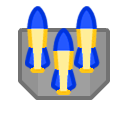
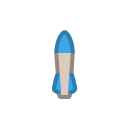
[modify]: towers' image

diff --git a/com.uet.tower-defense-common/src/main/java/com/uet/towerdefense/common/pojo/towers/AirGunTower.java b/com.uet.tower-defense-common/src/main/java/com/uet/towerdefense/common/pojo/towers/AirGunTower.java
@@ -4,6 +4,7 @@ import com.uet.towerdefense.common.enums.Towers;
 import com.uet.towerdefense.common.pojo.bullets.AirGunBullet;
 import com.uet.towerdefense.common.pojo.bullets.MachineGunBullet;
 import com.uet.towerdefense.common.pojo.enemies.BaseEnemy;
+import com.uet.towerdefense.common.pojo.enemies.SmallEnemy;
 import javafx.scene.Node;
 
 import java.util.List;
@@ -11,7 +12,7 @@ import java.util.List;
 public class AirGunTower extends AbstractTower {
 
     private static final String STAND_IMAGE_ID = "182";
-    private static final String[] TOWER_IMAGE_ID = new String[]{"206", "307", "308"};
+    private static final String[] TOWER_IMAGE_ID = new String[]{"307", "308", "206"};
 
     public AirGunTower(double x, double y, List<Node> nodes) {
         super(x, y, nodes);

diff --git a/com.uet.tower-defense-common/src/main/java/com/uet/towerdefense/common/pojo/bullets/AirGunBullet.java b/com.uet.tower-defense-common/src/main/java/com/uet/towerdefense/common/pojo/bullets/AirGunBullet.java
@@ -5,7 +5,7 @@ import com.uet.towerdefense.common.pojo.enemies.BaseEnemy;
 
 public class AirGunBullet extends AbstractBullet {
 
-    private static final String[] BULLET_IMAGE_ID = new String[]{"252", "252", "252"};
+    private static final String[] BULLET_IMAGE_ID = new String[]{"303", "304", "206"};
 
     public AirGunBullet(double x, double y, int direction, int damage, int level, BaseEnemy targetEnemy) {
         super(x, y, direction, damage, level, targetEnemy);

diff --git a/com.uet.tower-defense-common/src/main/java/com/uet/towerdefense/common/pojo/bullets/RocketBullet.java b/com.uet.tower-defense-common/src/main/java/com/uet/towerdefense/common/pojo/bullets/RocketBullet.java
@@ -5,7 +5,7 @@ import com.uet.towerdefense.common.pojo.enemies.BaseEnemy;
 
 public class RocketBullet extends AbstractBullet {
 
-    private static final String BULLET_IMAGE_ID[] = {"303", "303", "303"};
+    private static final String BULLET_IMAGE_ID[] = {"305", "306", "251"};
 
     public RocketBullet(double x, double y, int direction, int damage, int level, BaseEnemy targetEnemy) {
         super(x, y, direction, damage, level, targetEnemy);

diff --git a/com.uet.tower-defense-worker/src/main/java/com/uet/towerdefense/worker/service/MapService.java b/com.uet.tower-defense-worker/src/main/java/com/uet/towerdefense/worker/service/MapService.java
@@ -111,6 +111,9 @@ public class MapService {
         for (BaseTower tempTower : towers)
             if (tempTower == tower) {
                 towers.remove(tempTower);
+                List<BaseBullet> bullets = tempTower.getBullets();
+                for (BaseBullet bullet : bullets)
+                    nodeService.remove(bullet.getImageView());
                 break;
             }
         nodeService.remove(tower.getImageViewStand());

diff --git a/com.uet.tower-defense-common/src/main/java/com/uet/towerdefense/common/pojo/towers/RocketTower.java b/com.uet.tower-defense-common/src/main/java/com/uet/towerdefense/common/pojo/towers/RocketTower.java
@@ -10,7 +10,7 @@ import java.util.List;
 public class RocketTower extends AbstractTower {
 
     private static final String STAND_IMAGE_ID = "181";
-    private static final String[] TOWER_IMAGE_ID = new String[]{"304", "305", "306"};
+    private static final String[] TOWER_IMAGE_ID = new String[]{"309", "310", "205"};
 
     public RocketTower(double x, double y, List<Node> nodes) {
         super(x, y, nodes);

diff --git a/com.uet.tower-defense-common/src/main/java/com/uet/towerdefense/common/enums/Bullets.java b/com.uet.tower-defense-common/src/main/java/com/uet/towerdefense/common/enums/Bullets.java
@@ -11,5 +11,5 @@ public class Bullets {
     public static final double ROCKET_SPEED = 2.0;
     public static final double AIR_GUN_SPEED = 4.0;
 
-    public static final double ROCKET_EXPLOSION_RANGE = 300;
+    public static final double ROCKET_EXPLOSION_RANGE = 100;
 }
